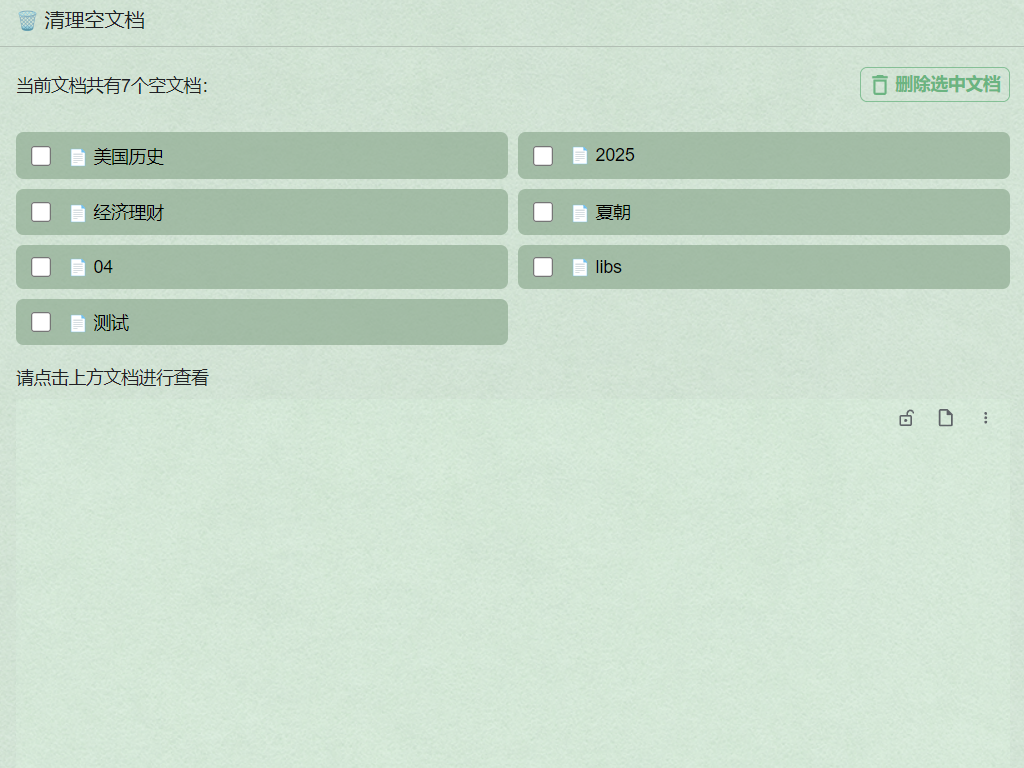
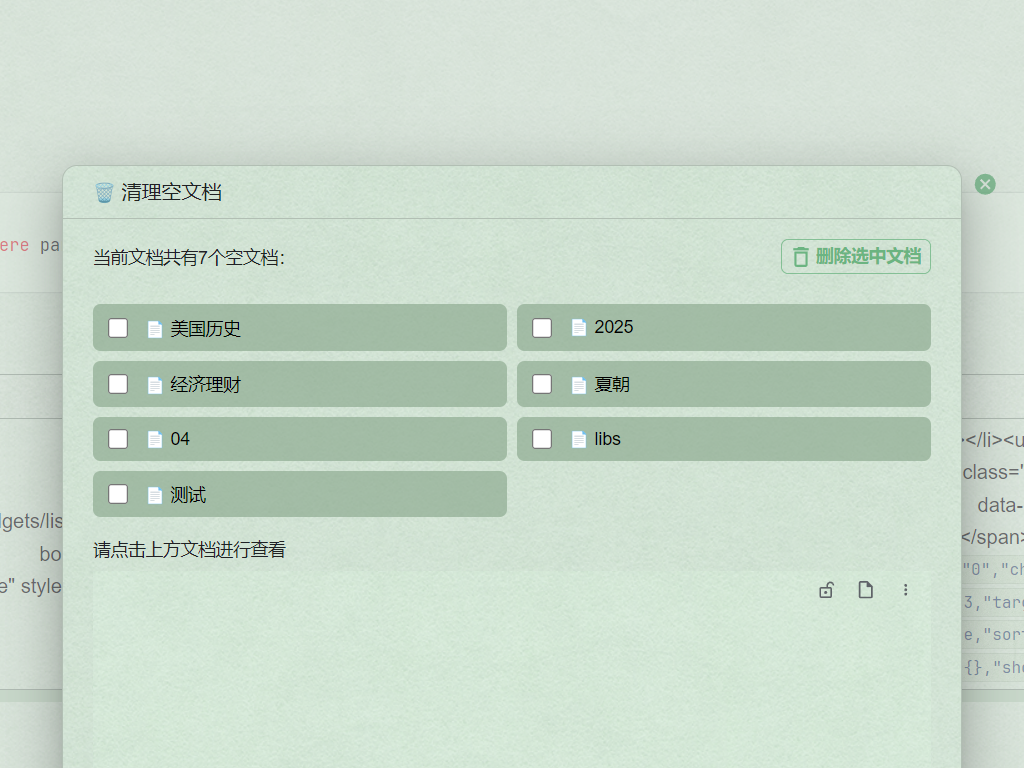
支持英文

diff --git a/src/page.svelte b/src/page.svelte
@@ -1,7 +1,7 @@
 <script lang="ts">
     import { onDestroy, onMount } from "svelte"; // Svelte 生命周期钩子 (组件挂载/销毁时触发)
     import { sql as query, removeDoc } from "@/api"; // 自定义 API 模块 (版本查询和 SQL 执行接口)
-    import { showMessage, Protyle } from "siyuan"; // 思源笔记官方 API (消息提示、POST 请求、编辑器组件)
+    import { showMessage, Protyle, I18N } from "siyuan"; // 思源笔记官方 API (消息提示、POST 请求、编辑器组件)
 
     interface DocItem {
         id: string;
@@ -10,12 +10,12 @@
         path: string; // 新增路径字段
     }
 
-    export let app; // 接收父组件传递的 app 实例
+    export let app;
+    export let i18n: I18N; // 使用官方 I18N 类型
 
     let divProtyle: HTMLDivElement;
     let protyle: any;
     let blockID: string = "";
-
     let emptydocs: DocItem[] = [];
     $: console.log(emptydocs); // 触发响应式更新
     let selectedDoc: DocItem | null = null;
@@ -67,7 +67,7 @@
                 }
             }
         } catch (error) {
-            showMessage(`文档获取失败: ${error.message}`, 5000, "error");
+            showMessage(`${i18n.findError} ${error.message}`, 5000, "error");
         }
     }
 
@@ -103,7 +103,7 @@
             );
 
             showMessage(
-                `✅ 已删除 ${selectedIds.length} 个空文档`,
+                `${i18n.deleteSuccess1} ${selectedIds.length} ${i18n.deleteSuccess2}`,
                 5000,
                 "info",
             );
@@ -112,7 +112,7 @@
             );
             selectedIds = [];
         } catch (error) {
-            showMessage(`❌ 删除失败: ${error.message}`, 5000, "error");
+            showMessage(`${i18n.deleteError} ${error.message}`, 5000, "error");
         }
     }
 
@@ -127,7 +127,7 @@
 
 <div class="b3-dialog__content">
     <div class="flex-container">
-        <span>当前文档共有{emptydocs.length}个空文档：</span>
+        <span>{i18n.EmptyDocNumber1}{emptydocs.length}{i18n.EmptyDocNumber2}</span>
         <button
             class="b3-button b3-button--outline"
             on:click={() => {
@@ -140,7 +140,7 @@
             <svg class="b3-button__icon"
                 ><use xlink:href="#iconTrashcan"></use></svg
             >
-            删除选中文档
+            {i18n.deleteButton}
         </button>
     </div>
     <div class="fn__hr" />
@@ -165,7 +165,7 @@
                 </button>
             </div>
         {:else}
-            <div class="empty-tip">🎉 当前没有发现空文档</div>
+            <div class="empty-tip">{this.noEmptyDoc}</div>
         {/each}
     </div>
     <div class="fn__hr" />
@@ -173,7 +173,7 @@
         {#if selectedDoc}
             {selectedDoc.name} (ID: {selectedDoc.id})
         {:else}
-            请点击上方文档进行查看
+            {i18n.clickToView}
         {/if}
     </div>
     <div class="fn__hr" />
@@ -196,10 +196,12 @@
                 <svg class="b3-dialog__icon" aria-hidden="true">
                     <use xlink:href="#iconTrashcan" />
                 </svg>
-                <h2 class="b3-dialog__title">确认删除</h2>
+                <h2 class="b3-dialog__title">{i18n.confirmDelete}</h2>
             </div>
             <div class="b3-dialog__body">
-                确定要永久删除 {deleteCount} 个文档吗？<span class="warning-text">该操作不可逆！</span>
+                {i18n.deleteConfirm1} {deleteCount} {i18n.deleteConfirm2}<span
+                    class="warning-text">{i18n.irreversible}</span
+                >
             </div>
             <div class="b3-dialog__footer">
                 <button
@@ -207,11 +209,11 @@
                     on:click={() => {
                         deleteSelectedDocs();
                         showConfirmDialog = false; // 添加关闭对话框操作
-                    }}>确认删除</button
+                    }}>{i18n.ensureDelete}</button
                 >
                 <button
                     class="b3-button"
-                    on:click={() => (showConfirmDialog = false)}>取消</button
+                    on:click={() => (showConfirmDialog = false)}>{i18n.cancelButton}</button
                 >
             </div>
         </div>

diff --git a/src/index.ts b/src/index.ts
@@ -4,7 +4,6 @@ import {
     getFrontend,
     IModel,
 } from "siyuan";
-import "@/index.scss";
 import setPage from "@/page.svelte";
 import { svelteDialog } from "./libs/dialog";
 
@@ -19,6 +18,8 @@ export default class PluginSample extends Plugin {
 
     async onload() {
         this.data[STORAGE_NAME] = { readonlyText: "Readonly" };
+
+        this.i18n = {...this.i18n,};
 
         await this.loadData(STORAGE_NAME);
 
@@ -46,19 +47,20 @@ export default class PluginSample extends Plugin {
     
 
     async onunload() {
-        showMessage("感谢使用，下次再会！");
+        showMessage(this.i18n.unload);
     }
 
 
     private showDialog() {
         svelteDialog({
-            title: `🗑 清理空文档`,
+            title: this.i18n.setTitle,
             width: this.isMobile ? "92vw" : "720px",
             constructor: (container: HTMLElement) => {
                 return new setPage({
                     target: container,
                     props: {
                         app: this.app,
+                        i18n: this.i18n,
                     }
                 });
             }
